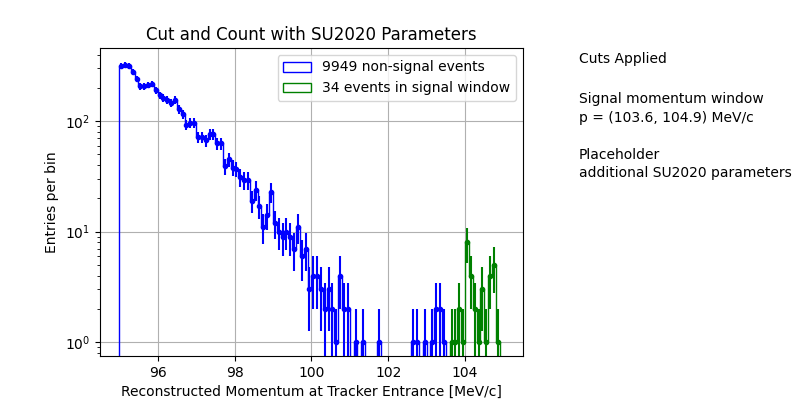
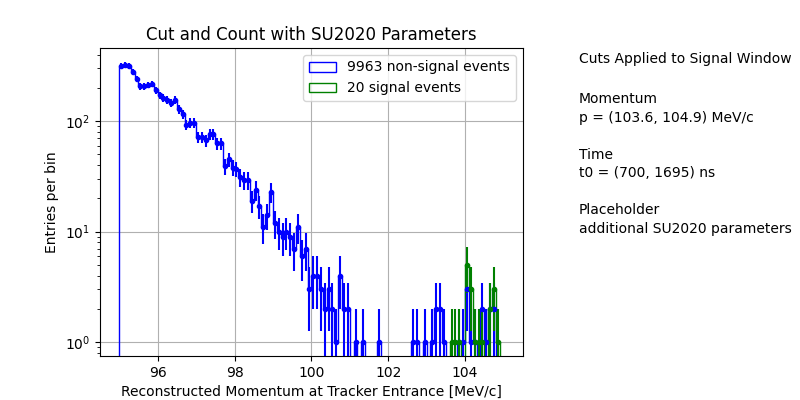
signal window time cut included

diff --git a/StatsTool-CutNCount/plots.py b/StatsTool-CutNCount/plots.py
@@ -15,20 +15,21 @@ def bin_errorbars(ax,n,bins,color):
 
 
 # will be updated to include additional cuts and fewer hardcoded parameters
-def PlotRecoMomEnt2(branches, low, hi,labels,plots,cuts_legend):
+def PlotRecoMomEnt2(branches, low, hi,labels,plots,cuts_legend,cut_results):
     """ visualize results of cut and count """
     fig, axs = plt.subplots(1,2,width_ratios=(3,1),figsize=(8,4))
     colors = dict(zip(plots,['b','g']))
     # events in signal window
-    n, bins, patches = axs[0].hist(ak.flatten(branches['demfit_mom0'][~branches['demfit_mom0_cut']], axis=None), 
+    idx=np.prod(cut_results,axis=0,dtype=bool)
+    n, bins, patches = axs[0].hist(ak.flatten(branches['demfit_mom0'][~idx], axis=None), 
                                         bins=100, range=(int(low), int(hi)), 
                                         label=labels['sig'], color=colors['sig'],
                                         histtype='step',)
     # events outside signal window
-    n2, bins2, patches2 = axs[0].hist(ak.flatten(branches['demfit_mom0'][branches['demfit_mom0_cut']], axis=None),
+    n2, bins2, patches2 = axs[0].hist(ak.flatten(branches['demfit_mom0'][idx], axis=None),
                                         bins=100, range=(int(low), int(hi)), 
                                         label=labels['other'], color=colors['other'],
-                                        histtype='step',)
+                                        histtype='step',)#alpha=0.5)
     # sqrt(n) error bars
     bin_errorbars(axs[0],n,bins,color=colors['sig'])
     bin_errorbars(axs[0],n2,bins2,color=colors['other'])
@@ -42,15 +43,13 @@ def PlotRecoMomEnt2(branches, low, hi,labels,plots,cuts_legend):
     axs[0].legend()
     # second axis for cuts legend. placeholder for listing more cuts
     axs[1].set_axis_off()
-    axs[1].text(0,0.95,'Cuts Applied')
+    axs[1].text(0,0.95,'Cuts Applied to Signal Window')
     for i,s in enumerate(cuts_legend):
         offset=0.18*(i+1)
         axs[1].text(0,1-offset,s[0])
         axs[1].text(0,1-offset-0.06,s[1])
         
     plt.show()
-
-
 
 
 

diff --git a/StatsTool-CutNCount/cut_and_count.py b/StatsTool-CutNCount/cut_and_count.py
@@ -14,26 +14,26 @@ def cut_and_count(args):
     # load data
     filelist = os.path.join(args.folder,args.dataset)
     recodata = ImportRecoData(filelist, opt='testing')
-    branches = recodata.Import_RecoFits("demfit", "demlh")
+    branches = recodata.Import_RecoFits(["demfit", "demlh"])
     branches = preprocess.preprocessing1(branches)
 
     # apply cuts
     branches = recodata.cuts.apply_cuts_indicator(branches)
+    cut_results = [branches[c+'_cut'] for c in recodata.cuts.cutsdict.keys()]
 
     # count events inside and outside signal window
-    # future versions will include additional cuts
-    signal_count = np.sum(branches['demfit_mom0_cut'])
+    signal_count = np.prod(cut_results,axis=0).sum()
     nonsignal_count = len(branches) - signal_count
     print(f'Events in signal window: {signal_count}')
     print(f'Events outside signal window: {nonsignal_count}')
 
     # view results
-    plots = ['sig', 'other']
-    labels = dict(zip(plots,['%i non-signal events' %nonsignal_count,'%i events in signal window' %signal_count]))
-    cuts_legend = [['Signal momentum window',
-                        f'p = {tuple(recodata.cuts.cutsdict["demfit_mom0"])} MeV/c',],
-                       ['Placeholder','additional SU2020 parameters',]  ]
-    PlotRecoMomEnt2(branches, args.mom_low,args.mom_high,labels=labels,plots=plots,cuts_legend=cuts_legend)
+    plots=['sig','other']
+    labels = dict(zip(plots,['%i non-signal events' %nonsignal_count,'%i signal events' %signal_count]))
+    cuts_legend = [['Momentum', f'p = {tuple(recodata.cuts.cutsdict["demfit_mom0"])} MeV/c',],
+               ['Time', f't0 = {tuple(recodata.cuts.cutsdict["demfit_t0"])} ns', ],
+               ['Placeholder','additional SU2020 parameters',]  ]
+    PlotRecoMomEnt2(branches, args.mom_low,args.mom_high,labels,plots,cuts_legend,cut_results)
 
 
 if __name__ == "__main__":

diff --git a/StatsTool-CutNCount/recodata.py b/StatsTool-CutNCount/recodata.py
@@ -4,7 +4,6 @@ import uproot
 from cuts import Cuts
 
 
-
 class ImportRecoData :
 
     def __init__(self, fileName, treeName="TrkAna", branchName="trkana", opt='su2020'):
@@ -14,14 +13,17 @@ class ImportRecoData :
         self.branchName = branchName
         self.cuts = Cuts(opt=opt)
 
-    def Import_RecoFits(self, leafname, leafname_field):
+    def Import_RecoFits(self, leafs):
         """ import reconstructed trk ana"""
         # import with uproot
         #trkana = uproot.open(self.fileName+":"+str(self.treeName)+"/"+str(self.branchName))
         trkana = uproot.open({self.fileName : str(self.treeName)+"/"+str(self.branchName)})
         # find track fit branches for downstream (d) electron (em) loop helix (lh):
-        branches = trkana.arrays(filter_name=["/"+str(leafname)+"/", "/"+str(leafname_field)+"/"])
+        # optional inclusion of other info such as MC truth (mcsim)
+        filters = ["/"+str(leaf)+"/" for leaf in leafs]
+        branches = trkana.arrays(filter_name=filters)
         return branches
+
 
 
 

diff --git a/StatsTool-CutNCount/preprocess.py b/StatsTool-CutNCount/preprocess.py
@@ -23,17 +23,16 @@ def preprocessing1(branches):
     branches = branches[branches['ntrk_cut']]
     
     # reconstructed track momentum
+    # three values per entry: start, middle, end of tracker
     branches['demfit_mom'] = np.sqrt((branches['demfit']['mom']['fCoordinates']['fX'])**2 +
                                  (branches['demfit']['mom']['fCoordinates']['fY'])**2 + 
                                  (branches['demfit']['mom']['fCoordinates']['fZ'])**2)
-    # three values per entry: start, middle, end of tracker
-    # here looking at reconstructed momentum at start of tracker
-    branches['demfit_mom0'] = branches['demfit_mom'][branches['demfit']['sid']==0]
+    # reconstructed momentum at start of tracker
+    branches['demfit_mom0'] = branches['demfit_mom'][branches['demfit','sid']==0]
+    # time from demfit at start of tracker
+    branches['demfit_t0'] = branches['demfit','time'][branches['demfit','sid']==0]
 
     return branches
-
-
-
 
 
 

diff --git a/StatsTool-CutNCount/cuts.py b/StatsTool-CutNCount/cuts.py
@@ -21,7 +21,10 @@ class Cuts() :
             self.cutsdict =  {
                 # signal momentum window from SU2020 Universe report
                 'demfit_mom0' : [103.6,104.9],
+                # signal window start and end times
+                'demfit_t0' : [700, 1695], # testing on demfit time at start of tracker
                 # implement additional cuts
+                # 
             }
 
     def ApplyCut(self, df):
@@ -40,8 +43,6 @@ class Cuts() :
             else: # upper and lower limits
                 data[keycut] = (data[key]>value[0]) & (data[key]<value[1])
         return data
-
-
 
 
 
